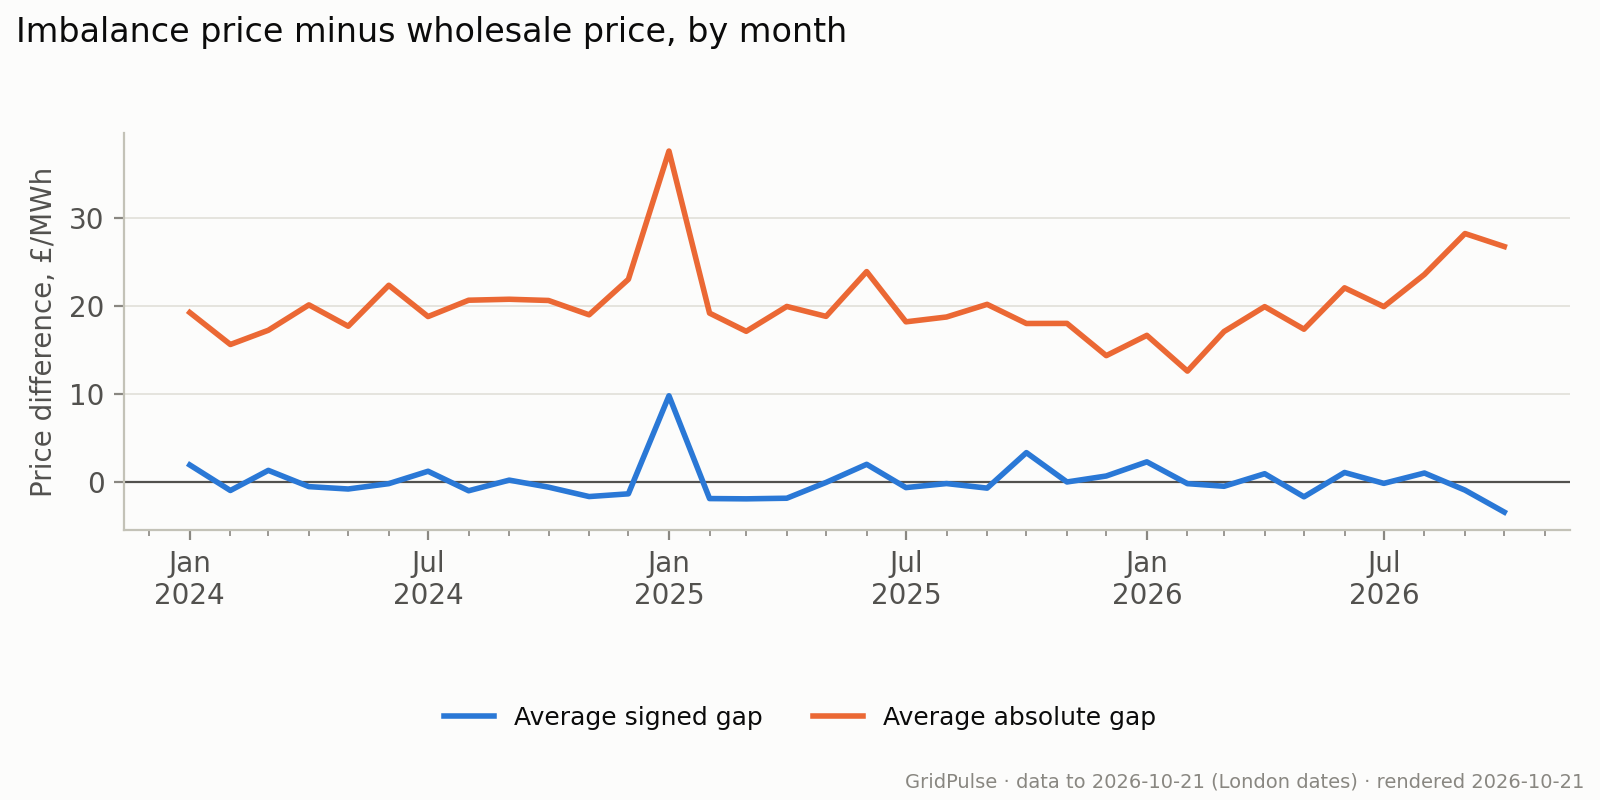
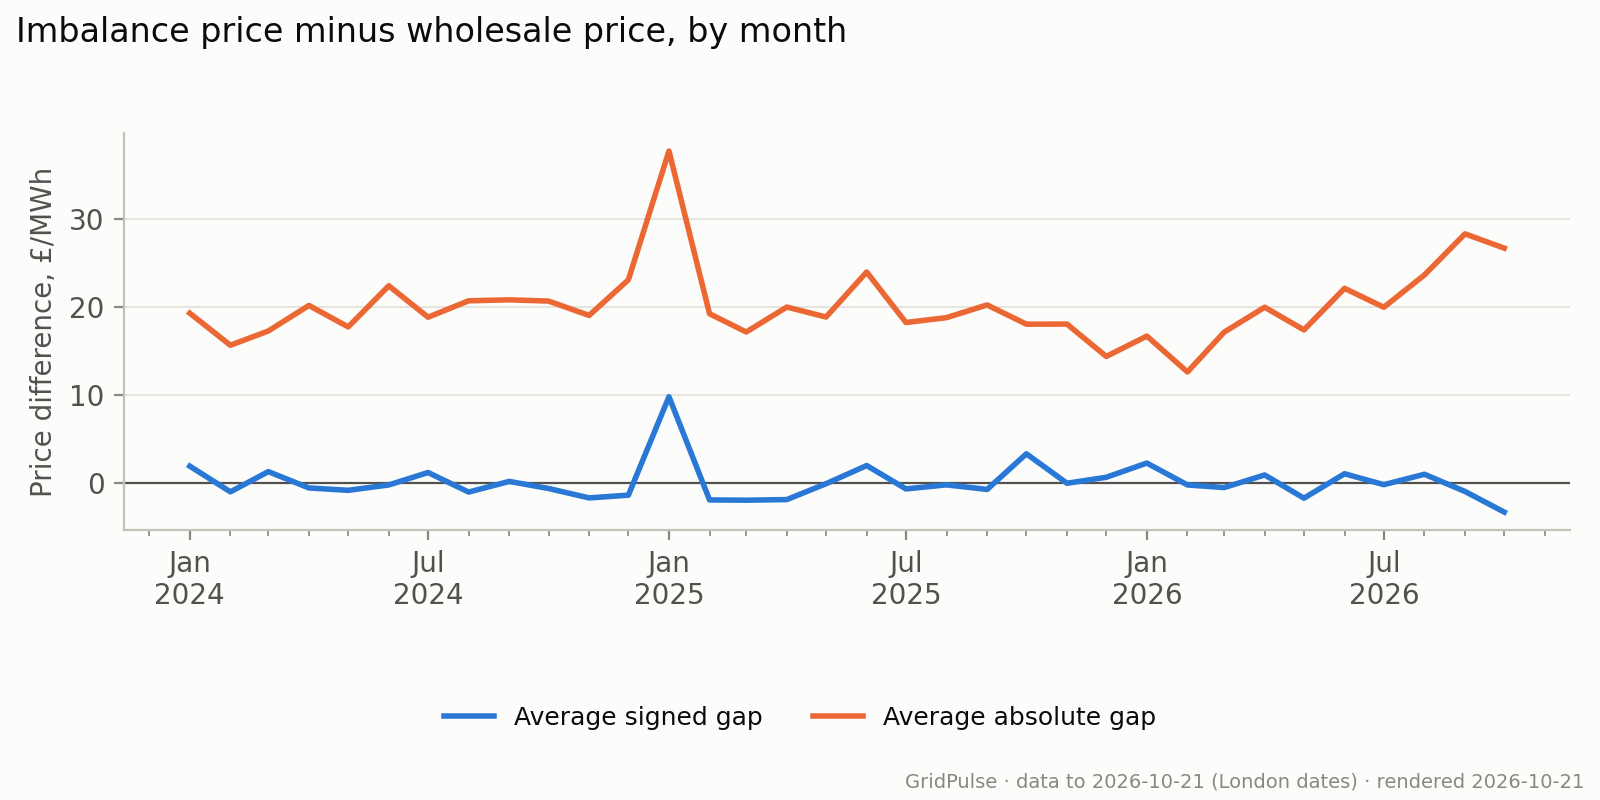
Rebuild from data to 2026-10-21, built 2026-10-21 20:50 UTC

diff --git a/index.html b/index.html
@@ -68,12 +68,12 @@ how electricity flows across borders, and how accurately demand is forecast.</p>
 <div><a href="#prices"><strong>Prices and grid conditions</strong></a><ul><li><a href="#negative_frequency">Negative Wholesale Price Frequency</a></li><li><a href="#negative_conditions">Grid Conditions During Negative Prices</a></li><li><a href="#imbalance_spread">Imbalance and Wholesale Price Gap</a></li><li><a href="#imbalance_conditions">Imbalance Prices by Grid Conditions</a></li></ul></div>
 <div><a href="#forecast-accuracy"><strong>Forecast accuracy</strong></a><ul><li><a href="#demand_accuracy">Average Demand Forecast Error by Hours Ahead</a></li><li><a href="#carbon_accuracy">Carbon Forecast Error by Month</a></li></ul></div>
 <div><a href="#data-quality"><strong>Data quality</strong></a><ul><li><a href="#coverage">Monthly Data Coverage</a></li><li><a href="#publication_coverage">Demand Forecast Publication Coverage</a></li></ul></div></nav></details>
-<p class="banner" id="built" data-built="2026-10-21T14:50:18Z" data-ingested="2026-10-21T14:00:35Z">
-Analysis built 2026-10-21 14:50 UTC. Each chart uses its stated window;
+<p class="banner" id="built" data-built="2026-10-21T20:50:21Z" data-ingested="2026-10-21T20:00:30Z">
+Analysis built 2026-10-21 20:50 UTC. Each chart uses its stated window;
 current-month results are provisional. Scheduled refresh: every 6 hours.</p>
 <details class="provenance"><summary>Data dates and source code</summary>
 <p class="meta">National carbon actuals: data to 2026-10-21 (London dates).
-Most recent ingestion across sources: 2026-10-21 14:00 UTC.
+Most recent ingestion across sources: 2026-10-21 20:00 UTC.
 These timestamps do not establish completeness or freshness for every source.
 “As of” refers to the build date. Select a chart to view it full size.</p>
 <a href="https://github.com/thrkld/gridpulse">Python, SQL and dbt project on GitHub</a></details>
@@ -210,7 +210,7 @@ These timestamps do not establish completeness or freshness for every source.
 <h4>Limitations</h4>
 <p class="caveat">The gap is not a participant&#x27;s realised trading profit or imbalance cost. Monthly means can conceal large individual price spikes. The current month is incomplete.</p>
 <details><summary>How to read this graph and methodology</summary><p>For each half hour with both prices since January 2024, subtract wholesale price from imbalance price. Average these differences within each month for the blue line: above zero means imbalance prices were higher. For the orange line, take the absolute value of each difference before averaging, so positive and negative gaps cannot cancel. The overall finding weights monthly means by their matched-period counts; minor rounding differences are possible. Prices are in pounds per megawatt-hour (£/MWh), and today is excluded.</p></details>
-<details><summary>Numbers behind the chart</summary><div class="table-scroll" tabindex="0" role="region" aria-label="Data for Imbalance and Wholesale Price Gap"><table><thead><tr><th>Month</th><th>Mean spread GBP/MWh</th><th>Mean absolute spread GBP/MWh</th><th>Matched periods</th></tr></thead><tbody><tr><td>2024-01-01</td><td>1.92</td><td>19.27</td><td>1488</td></tr><tr><td>2024-02-01</td><td>-0.99</td><td>15.63</td><td>1392</td></tr><tr><td>2024-03-01</td><td>1.3</td><td>17.25</td><td>1486</td></tr><tr><td>2024-04-01</td><td>-0.55</td><td>20.14</td><td>1439</td></tr><tr><td>2024-05-01</td><td>-0.82</td><td>17.71</td><td>1488</td></tr><tr><td>2024-06-01</td><td>-0.21</td><td>22.37</td><td>1440</td></tr><tr><td>2024-07-01</td><td>1.2</td><td>18.81</td><td>1488</td></tr><tr><td>2024-08-01</td><td>-1.02</td><td>20.67</td><td>1488</td></tr><tr><td>2024-09-01</td><td>0.19</td><td>20.78</td><td>1440</td></tr><tr><td>2024-10-01</td><td>-0.61</td><td>20.64</td><td>1490</td></tr><tr><td>2024-11-01</td><td>-1.68</td><td>19.01</td><td>1440</td></tr><tr><td>2024-12-01</td><td>-1.37</td><td>23.05</td><td>1488</td></tr><tr><td>2025-01-01</td><td>9.79</td><td>37.65</td><td>1488</td></tr><tr><td>2025-02-01</td><td>-1.91</td><td>19.2</td><td>1344</td></tr><tr><td>2025-03-01</td><td>-1.94</td><td>17.13</td><td>1486</td></tr><tr><td>2025-04-01</td><td>-1.87</td><td>19.96</td><td>1440</td></tr><tr><td>2025-05-01</td><td>-0.07</td><td>18.83</td><td>1488</td></tr><tr><td>2025-06-01</td><td>1.99</td><td>23.93</td><td>1430</td></tr><tr><td>2025-07-01</td><td>-0.66</td><td>18.21</td><td>1488</td></tr><tr><td>2025-08-01</td><td>-0.2</td><td>18.76</td><td>1488</td></tr><tr><td>2025-09-01</td><td>-0.72</td><td>20.2</td><td>1439</td></tr><tr><td>2025-10-01</td><td>3.32</td><td>18.02</td><td>1490</td></tr><tr><td>2025-11-01</td><td>-0.02</td><td>18.03</td><td>1440</td></tr><tr><td>2025-12-01</td><td>0.66</td><td>14.36</td><td>1488</td></tr><tr><td>2026-01-01</td><td>2.27</td><td>16.67</td><td>1488</td></tr><tr><td>2026-02-01</td><td>-0.21</td><td>12.6</td><td>1344</td></tr><tr><td>2026-03-01</td><td>-0.51</td><td>17.11</td><td>1486</td></tr><tr><td>2026-04-01</td><td>0.92</td><td>19.94</td><td>1440</td></tr><tr><td>2026-05-01</td><td>-1.71</td><td>17.37</td><td>1486</td></tr><tr><td>2026-06-01</td><td>1.06</td><td>22.08</td><td>1440</td></tr><tr><td>2026-07-01</td><td>-0.18</td><td>19.94</td><td>1482</td></tr><tr><td>2026-08-01</td><td>1</td><td>23.6</td><td>1488</td></tr><tr><td>2026-09-01</td><td>-0.95</td><td>28.26</td><td>1436</td></tr><tr><td>2026-10-01</td><td>-3.45</td><td>26.78</td><td>960</td></tr></tbody></table></div></details>
+<details><summary>Numbers behind the chart</summary><div class="table-scroll" tabindex="0" role="region" aria-label="Data for Imbalance and Wholesale Price Gap"><table><thead><tr><th>Month</th><th>Mean spread GBP/MWh</th><th>Mean absolute spread GBP/MWh</th><th>Matched periods</th></tr></thead><tbody><tr><td>2024-01-01</td><td>1.92</td><td>19.27</td><td>1488</td></tr><tr><td>2024-02-01</td><td>-0.99</td><td>15.63</td><td>1392</td></tr><tr><td>2024-03-01</td><td>1.3</td><td>17.25</td><td>1486</td></tr><tr><td>2024-04-01</td><td>-0.55</td><td>20.14</td><td>1439</td></tr><tr><td>2024-05-01</td><td>-0.82</td><td>17.71</td><td>1488</td></tr><tr><td>2024-06-01</td><td>-0.21</td><td>22.37</td><td>1440</td></tr><tr><td>2024-07-01</td><td>1.2</td><td>18.81</td><td>1488</td></tr><tr><td>2024-08-01</td><td>-1.02</td><td>20.67</td><td>1488</td></tr><tr><td>2024-09-01</td><td>0.19</td><td>20.78</td><td>1440</td></tr><tr><td>2024-10-01</td><td>-0.61</td><td>20.64</td><td>1490</td></tr><tr><td>2024-11-01</td><td>-1.68</td><td>19.01</td><td>1440</td></tr><tr><td>2024-12-01</td><td>-1.37</td><td>23.05</td><td>1488</td></tr><tr><td>2025-01-01</td><td>9.79</td><td>37.65</td><td>1488</td></tr><tr><td>2025-02-01</td><td>-1.91</td><td>19.2</td><td>1344</td></tr><tr><td>2025-03-01</td><td>-1.94</td><td>17.13</td><td>1486</td></tr><tr><td>2025-04-01</td><td>-1.87</td><td>19.96</td><td>1440</td></tr><tr><td>2025-05-01</td><td>-0.07</td><td>18.83</td><td>1488</td></tr><tr><td>2025-06-01</td><td>1.99</td><td>23.93</td><td>1430</td></tr><tr><td>2025-07-01</td><td>-0.66</td><td>18.21</td><td>1488</td></tr><tr><td>2025-08-01</td><td>-0.2</td><td>18.76</td><td>1488</td></tr><tr><td>2025-09-01</td><td>-0.72</td><td>20.2</td><td>1439</td></tr><tr><td>2025-10-01</td><td>3.32</td><td>18.02</td><td>1490</td></tr><tr><td>2025-11-01</td><td>-0.02</td><td>18.03</td><td>1440</td></tr><tr><td>2025-12-01</td><td>0.66</td><td>14.36</td><td>1488</td></tr><tr><td>2026-01-01</td><td>2.27</td><td>16.67</td><td>1488</td></tr><tr><td>2026-02-01</td><td>-0.21</td><td>12.6</td><td>1344</td></tr><tr><td>2026-03-01</td><td>-0.51</td><td>17.11</td><td>1486</td></tr><tr><td>2026-04-01</td><td>0.92</td><td>19.94</td><td>1440</td></tr><tr><td>2026-05-01</td><td>-1.71</td><td>17.37</td><td>1486</td></tr><tr><td>2026-06-01</td><td>1.06</td><td>22.08</td><td>1440</td></tr><tr><td>2026-07-01</td><td>-0.18</td><td>19.94</td><td>1482</td></tr><tr><td>2026-08-01</td><td>1</td><td>23.6</td><td>1488</td></tr><tr><td>2026-09-01</td><td>-0.95</td><td>28.26</td><td>1436</td></tr><tr><td>2026-10-01</td><td>-3.29</td><td>26.64</td><td>960</td></tr></tbody></table></div></details>
 </section>
 <section class="chart" id="imbalance_conditions">
 <h3 class="chart-title">Imbalance Prices by Grid Conditions</h3>
@@ -225,7 +225,7 @@ These timestamps do not establish completeness or freshness for every source.
 <h4>Limitations</h4>
 <p class="caveat">Averages in small groups are unstable and sensitive to extreme prices. Demand and renewable share alone cannot explain price formation; season, fuel prices and system constraints also vary.</p>
 <details><summary>How to read this graph and methodology</summary><p>Rows are 5 GW demand bands; columns are 20-percentage-point renewable bands. Lower bounds are included and upper bounds excluded, except the final renewable band includes 100%. Renewables comprises wind, solar and hydro. Red means a positive average price; blue means a negative average, with stronger colour indicating a larger magnitude. Every eligible half hour since January 2024 needs positive settled demand, a renewable share from 0% to 100% and an imbalance price. The colour scale and headline only compare groups with at least 100 observations, a descriptive filter rather than a statistical significance test. All other observed averages remain labelled in striped cells and listed in the data table. Today is excluded.</p></details>
-<details><summary>Numbers behind the chart</summary><div class="table-scroll" tabindex="0" role="region" aria-label="Data for Imbalance Prices by Grid Conditions"><table><thead><tr><th>Demand bin lower bound GW</th><th>Renewable bin lower bound %</th><th>Mean imbalance price GBP/MWh</th><th>Matched periods</th></tr></thead><tbody><tr><td>10</td><td>40</td><td>60.34</td><td>45</td></tr><tr><td>10</td><td>60</td><td>-7.07</td><td>119</td></tr><tr><td>15</td><td>0</td><td>85.6</td><td>710</td></tr><tr><td>15</td><td>20</td><td>81.71</td><td>2030</td></tr><tr><td>15</td><td>40</td><td>57.62</td><td>2731</td></tr><tr><td>15</td><td>60</td><td>10.78</td><td>1965</td></tr><tr><td>15</td><td>80</td><td>13.92</td><td>7</td></tr><tr><td>20</td><td>0</td><td>93.46</td><td>2153</td></tr><tr><td>20</td><td>20</td><td>91.96</td><td>6174</td></tr><tr><td>20</td><td>40</td><td>80.02</td><td>6373</td></tr><tr><td>20</td><td>60</td><td>34.16</td><td>2698</td></tr><tr><td>25</td><td>0</td><td>107.18</td><td>1981</td></tr><tr><td>25</td><td>20</td><td>101.07</td><td>5673</td></tr><tr><td>25</td><td>40</td><td>89.19</td><td>3932</td></tr><tr><td>25</td><td>60</td><td>56.67</td><td>1181</td></tr><tr><td>30</td><td>0</td><td>115.53</td><td>1165</td></tr><tr><td>30</td><td>20</td><td>96.66</td><td>2448</td></tr><tr><td>30</td><td>40</td><td>87.12</td><td>2342</td></tr><tr><td>30</td><td>60</td><td>69.13</td><td>355</td></tr><tr><td>35</td><td>0</td><td>126.58</td><td>826</td></tr><tr><td>35</td><td>20</td><td>98.91</td><td>1950</td></tr><tr><td>35</td><td>40</td><td>90.36</td><td>1228</td></tr><tr><td>35</td><td>60</td><td>91.03</td><td>5</td></tr><tr><td>40</td><td>0</td><td>199.64</td><td>307</td></tr><tr><td>40</td><td>20</td><td>114.72</td><td>582</td></tr><tr><td>40</td><td>40</td><td>104.88</td><td>97</td></tr><tr><td>45</td><td>0</td><td>1,967</td><td>6</td></tr><tr><td>45</td><td>20</td><td>183.04</td><td>18</td></tr></tbody></table></div></details>
+<details><summary>Numbers behind the chart</summary><div class="table-scroll" tabindex="0" role="region" aria-label="Data for Imbalance Prices by Grid Conditions"><table><thead><tr><th>Demand bin lower bound GW</th><th>Renewable bin lower bound %</th><th>Mean imbalance price GBP/MWh</th><th>Matched periods</th></tr></thead><tbody><tr><td>10</td><td>40</td><td>60.34</td><td>45</td></tr><tr><td>10</td><td>60</td><td>-7.07</td><td>119</td></tr><tr><td>15</td><td>0</td><td>85.6</td><td>710</td></tr><tr><td>15</td><td>20</td><td>81.71</td><td>2030</td></tr><tr><td>15</td><td>40</td><td>57.62</td><td>2731</td></tr><tr><td>15</td><td>60</td><td>10.78</td><td>1965</td></tr><tr><td>15</td><td>80</td><td>13.92</td><td>7</td></tr><tr><td>20</td><td>0</td><td>93.46</td><td>2153</td></tr><tr><td>20</td><td>20</td><td>91.96</td><td>6174</td></tr><tr><td>20</td><td>40</td><td>80.02</td><td>6373</td></tr><tr><td>20</td><td>60</td><td>34.16</td><td>2698</td></tr><tr><td>25</td><td>0</td><td>107.18</td><td>1981</td></tr><tr><td>25</td><td>20</td><td>101.07</td><td>5673</td></tr><tr><td>25</td><td>40</td><td>89.19</td><td>3932</td></tr><tr><td>25</td><td>60</td><td>56.67</td><td>1181</td></tr><tr><td>30</td><td>0</td><td>115.53</td><td>1165</td></tr><tr><td>30</td><td>20</td><td>96.66</td><td>2448</td></tr><tr><td>30</td><td>40</td><td>87.18</td><td>2342</td></tr><tr><td>30</td><td>60</td><td>69.13</td><td>355</td></tr><tr><td>35</td><td>0</td><td>126.58</td><td>826</td></tr><tr><td>35</td><td>20</td><td>98.91</td><td>1950</td></tr><tr><td>35</td><td>40</td><td>90.36</td><td>1228</td></tr><tr><td>35</td><td>60</td><td>91.03</td><td>5</td></tr><tr><td>40</td><td>0</td><td>199.64</td><td>307</td></tr><tr><td>40</td><td>20</td><td>114.72</td><td>582</td></tr><tr><td>40</td><td>40</td><td>104.88</td><td>97</td></tr><tr><td>45</td><td>0</td><td>1,967</td><td>6</td></tr><tr><td>45</td><td>20</td><td>183.04</td><td>18</td></tr></tbody></table></div></details>
 </section>
 <h2 class="topic-heading" id="forecast-accuracy">Forecast accuracy</h2><section class="chart" id="demand_accuracy">
 <h3 class="chart-title">Average Demand Forecast Error by Hours Ahead</h3>
